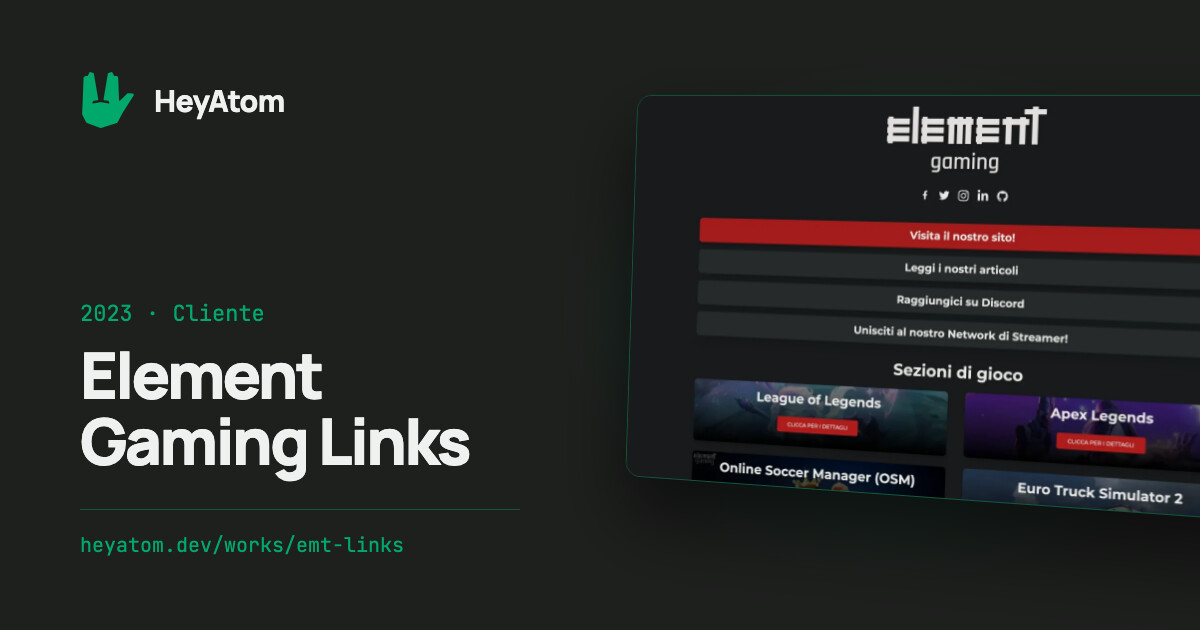
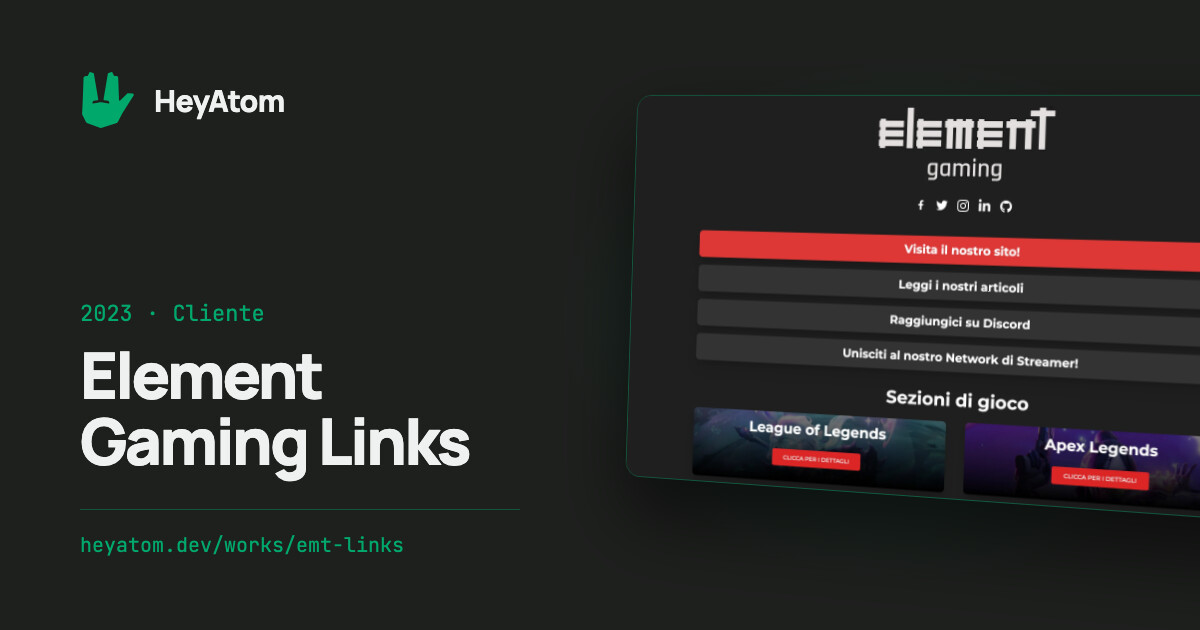
feat: og image dai nuovi screenshot locali
Rigenerate le og image di /works e dei progetti passati a public/shots.
works.html usa gli screenshot locali di Element e DBD Builds e conta 10
progetti. works.ts importa works.en.ts con l'estensione: senza, Node non
lo risolveva e render.sh si fermava.

Changed region(s): [[0.555, 0.1508, 1.0, 0.8143]]

diff --git a/og/works.html b/og/works.html
@@ -18,14 +18,14 @@ p{margin-top:24px;font-size:24px;font-weight:500;color:#d1d5d2;line-height:1.45}
 .d{left:20px;top:340px;transform:rotate(-2deg)}
 </style>
 <div class="deck">
-<img class="a" src="https://fileharbor.heyatom.dev/v2/images/6cccdde4-29b6-4cae-80be-f943b0105e10?width=1040">
+<img class="a" src="../public/shots/element/1.webp">
 <img class="b" src="https://fileharbor.heyatom.dev/v2/images/3e7de746-fc49-4d59-83e2-12ef0fdedabe?width=1040">
-<img class="d" src="https://fileharbor.heyatom.dev/v2/images/293f4c8b-7fa8-472f-92b3-027f5011cc99?width=1040">
+<img class="d" src="../public/shots/kaish-dbd/1.webp">
 </div>
 <div class="c">
 <div class="brand"><img src="../public/favicon.svg">HeyAtom</div>
 <div class="k">/ lavori</div>
-<h1>9 progetti,<br><span>dal 2016.</span></h1>
+<h1>10 progetti,<br><span>dal 2016.</span></h1>
 <p>Per clienti, associazioni e community. Su una piattaforma costruita da me.</p>
 <div class="foot">heyatom.dev/works</div>
 </div>

diff --git a/app/data/works.ts b/app/data/works.ts
@@ -1,5 +1,5 @@
 // Fonte: website4/content/projects/*.md (IT). Rigenera da lì se cambiano.
-import { worksEn } from "./works.en"
+import { worksEn } from "./works.en.ts"
 export type WorkKind = "cliente" | "open-source" | "personale"
 
 export interface Work {
